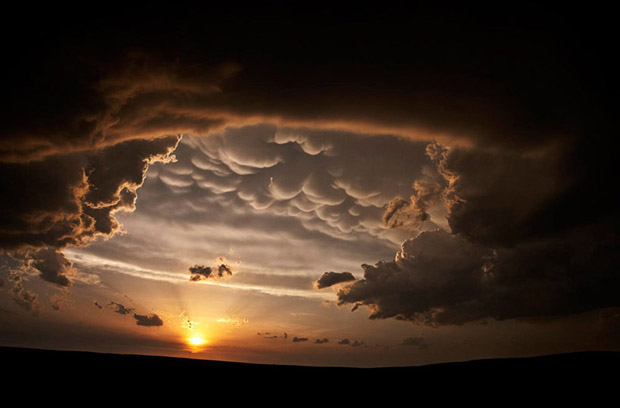
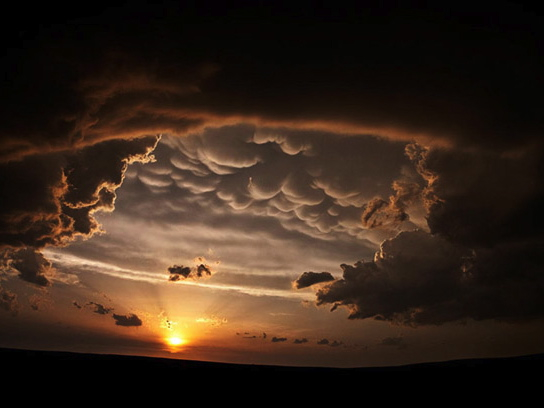
added sample pics with same formats

diff --git a/app/assets/javascripts/slideshows.js b/app/assets/javascripts/slideshows.js
@@ -33,7 +33,7 @@ $(function() {
     fade: 1
   }, [
     {
-      src:  'assets/sample_slideshow_pics/pic9.png',
+      src:  'assets/sample_slideshow_pics/pic9.jpg',
       alt:  'Sand Castle',
       from: '100% 80% 1x',
       to:   '100% 0% 1.7x',
